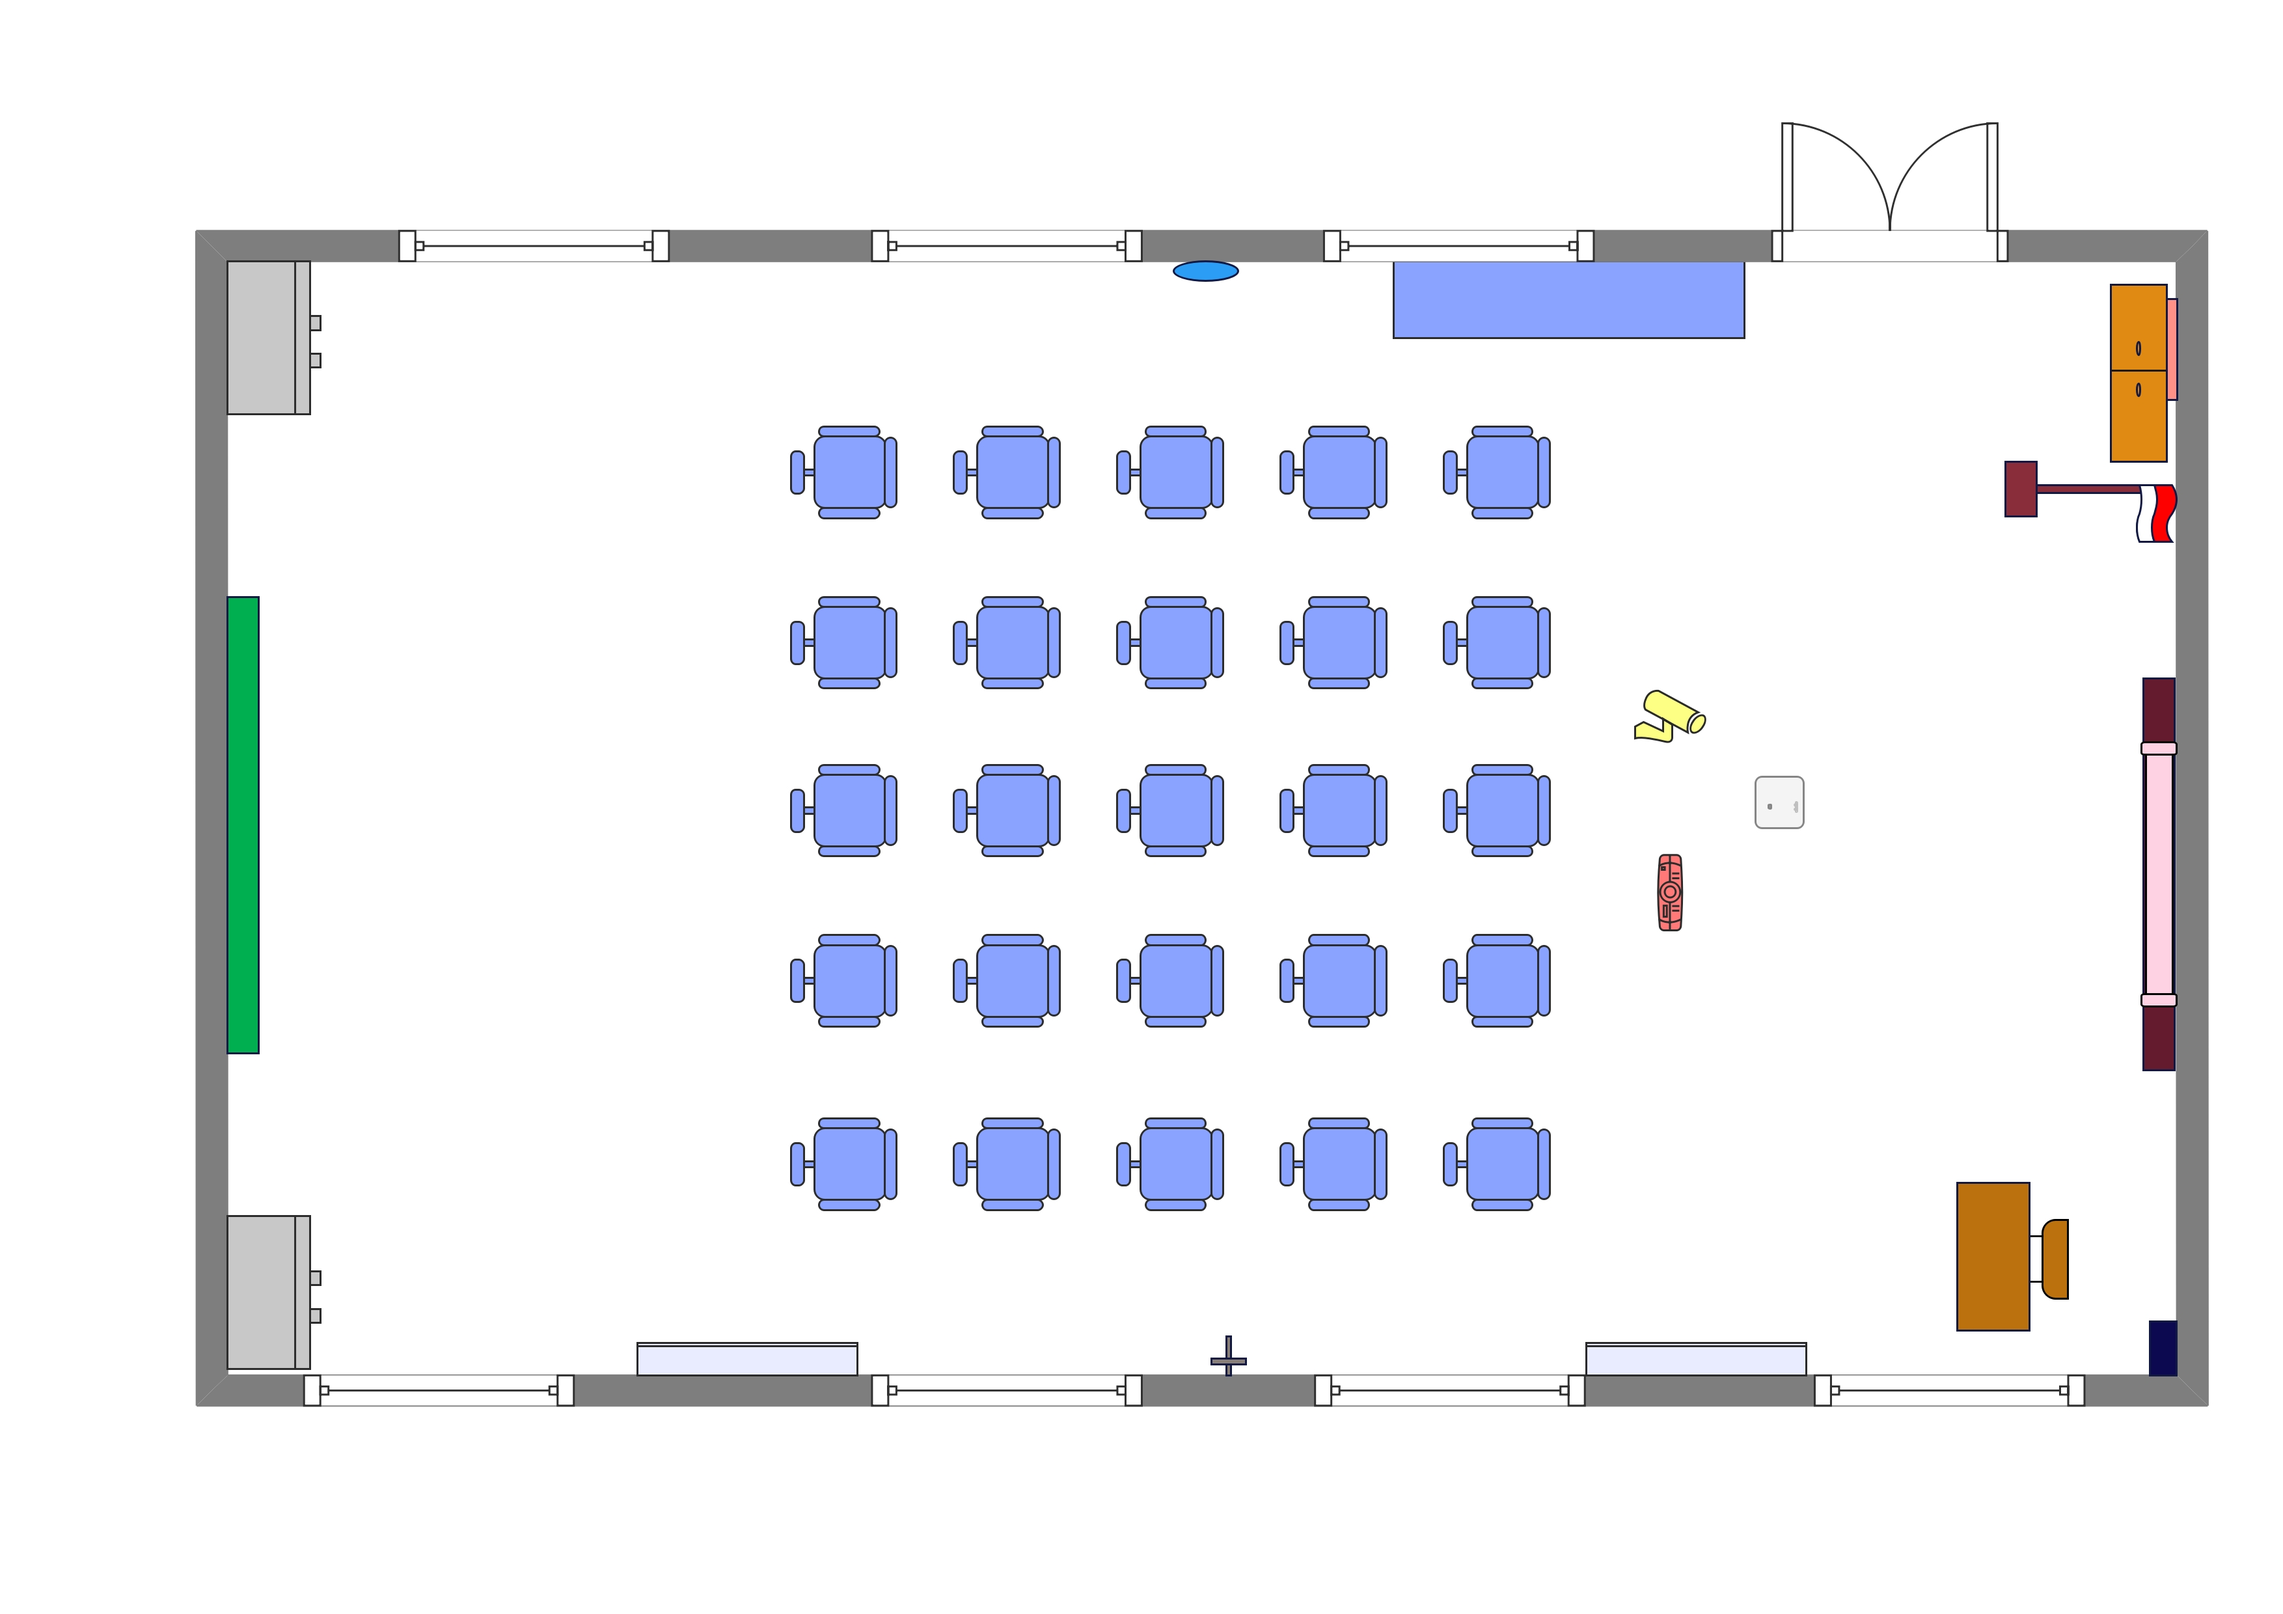
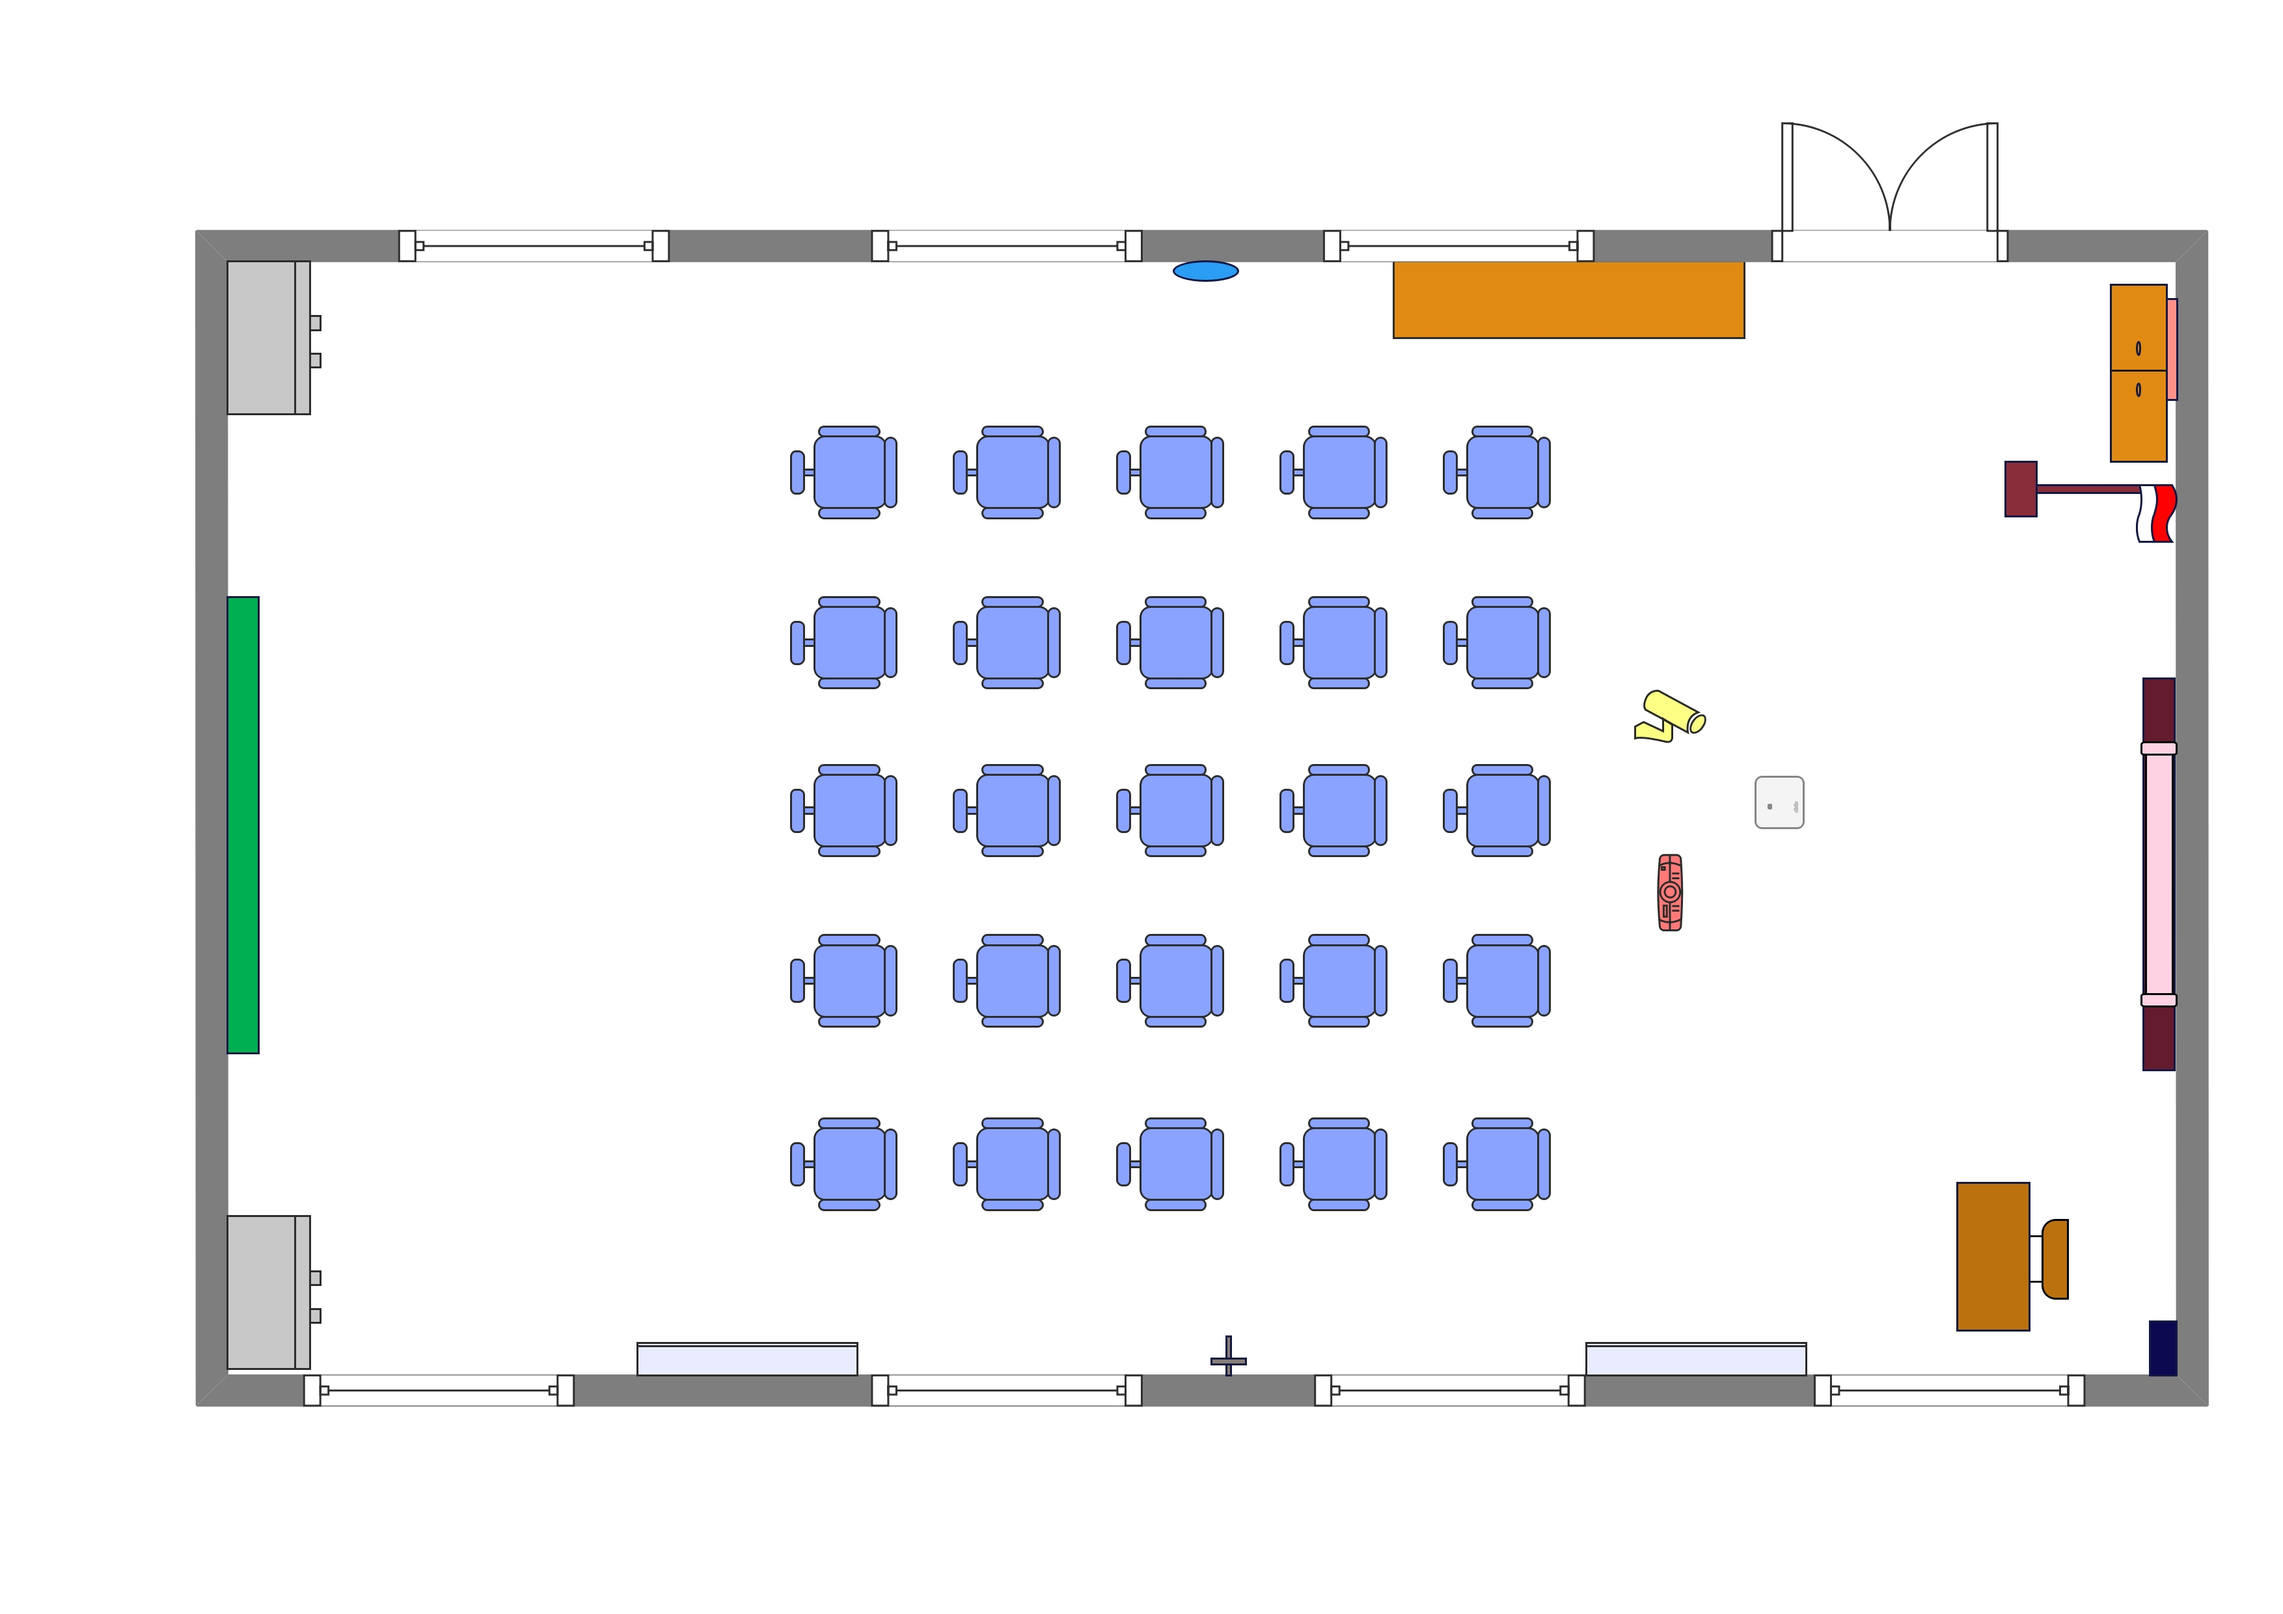
update gambar kelas VII B

Changed region(s): [[0.5904, 0.1552, 0.7768, 0.2173]]

diff --git a/src/data/roomsData.js b/src/data/roomsData.js
@@ -246,23 +246,31 @@ export const roomsData = {
     ]
   },
 
-  // Kelas VII A
+  // Kelas VII B
   "030106": {
     name: "Ruang Kelas VII B",
     location: "Lantai 1 - Gedung SMP",
     capacity: "",
-    nameClass: "Ruang Kelas VII A",
+    nameClass: "Ruang Kelas VII B",
     building: "SMP",
     floor: "1",
     roomNumber: "R03-01-06",
     images: [
       {
-        src: "",
-        alt: ""
-      }
+        src: "/images/rooms/VIIB/viib1.jpeg",
+        alt: "Bagian Depan Kelas VII B"
+      },
+      {
+        src: "/images/rooms/VIIB/viib2.jpeg",
+        alt: "Bagian Samping dan Belakang Kelas VII B"
+      },
+      {
+        src: "/images/rooms/VIIB/viib3.jpeg",
+        alt: "Bagian Samping dan Belakang Kelas VII B"
+      },
     ],
     assets: [
-      { icon: "/icons/table.svg", name: "Meja Siswa", count: "26 Unit" },
+      { icon: "/icons/table.svg", name: "Meja Siswa", count: "33 Unit" },
       { icon: "/icons/studentChair.svg", name: "Kursi Siswa", count: "26 Unit" },
       { icon: "/icons/speaker.svg", name: "Speaker", count: "2 Unit" },
       { icon: "/icons/teacherDesk.svg", name: "Meja Guru", count: "1 Unit" },
@@ -274,7 +282,7 @@ export const roomsData = {
       { icon: "/icons/ipCamera.svg", name: "IP Camera", count: "1 Unit" },
       { icon: "/icons/lockers.svg", name: "Loker", count: "2 Unit" },
       { icon: "/icons/clock.svg", name: "Jam Dinding", count: "1 Unit" },
-      { icon: "/icons/cabinet.svg", name: "Lemari", count: "1 Unit" },
+      { icon: "/icons/cabinet.svg", name: "Lemari", count: "2 Unit" },
       { icon: "/icons/curtain.svg", name: "Gorden", count: "6 Unit" },
       { icon: "/icons/cross.svg", name: "Salib", count: "1 Unit" },
       { icon: "/icons/flag.svg", name: "Bendera", count: "1 Set" },
@@ -282,7 +290,7 @@ export const roomsData = {
       { icon: "/icons/frame.svg", name: "Bingkai", count: "2 Unit" },
       { icon: "/icons/hangingWhiteboard.svg", name: "Papan Data Informasi", count: "1 Unit" }
     ],
-    mapImage: "/maps/r030106.jpg",
+    mapImage: "/maps/r030106.jpg", 
     legendItems: [
       { number: 1, name: "Meja Siswa", color: "#8AA3FF" },
       { number: 2, name: "Kursi Siswa", color: "#8AA3FF" },
@@ -296,7 +304,7 @@ export const roomsData = {
       { number: 10, name: "IP Camera", color: "#FDFF84" },
       { number: 11, name: "Loker", color: "#C2C2C2" },
       { number: 12, name: "Jam Dinding", color: "#2B9DF5", textColor: "#FFFFFF" },
-      { number: 13, name: "Lemari", color: "#E2B349" },
+      { number: 13, name: "Lemari", color: "#E08A13" },
       { number: 14, name: "Salib", color: "#827F88", textColor: "#FFFFFF" },
       { number: 15, name: "Bendera", color: "#892D3A", textColor: "#FFFFFF" },
       { number: 16, name: "Lambang Garuda", color: "#B55E55" },
@@ -313,7 +321,7 @@ export const roomsData = {
     name: "Ruang Kelas VII A",
     location: "Lantai 1 - Gedung SMP",
     capacity: "",
-    nameClass: "Ruang Kelas VII B",
+    nameClass: "Ruang Kelas VII A",
     building: "SMP",
     floor: "1",
     roomNumber: "R03-01-07",
